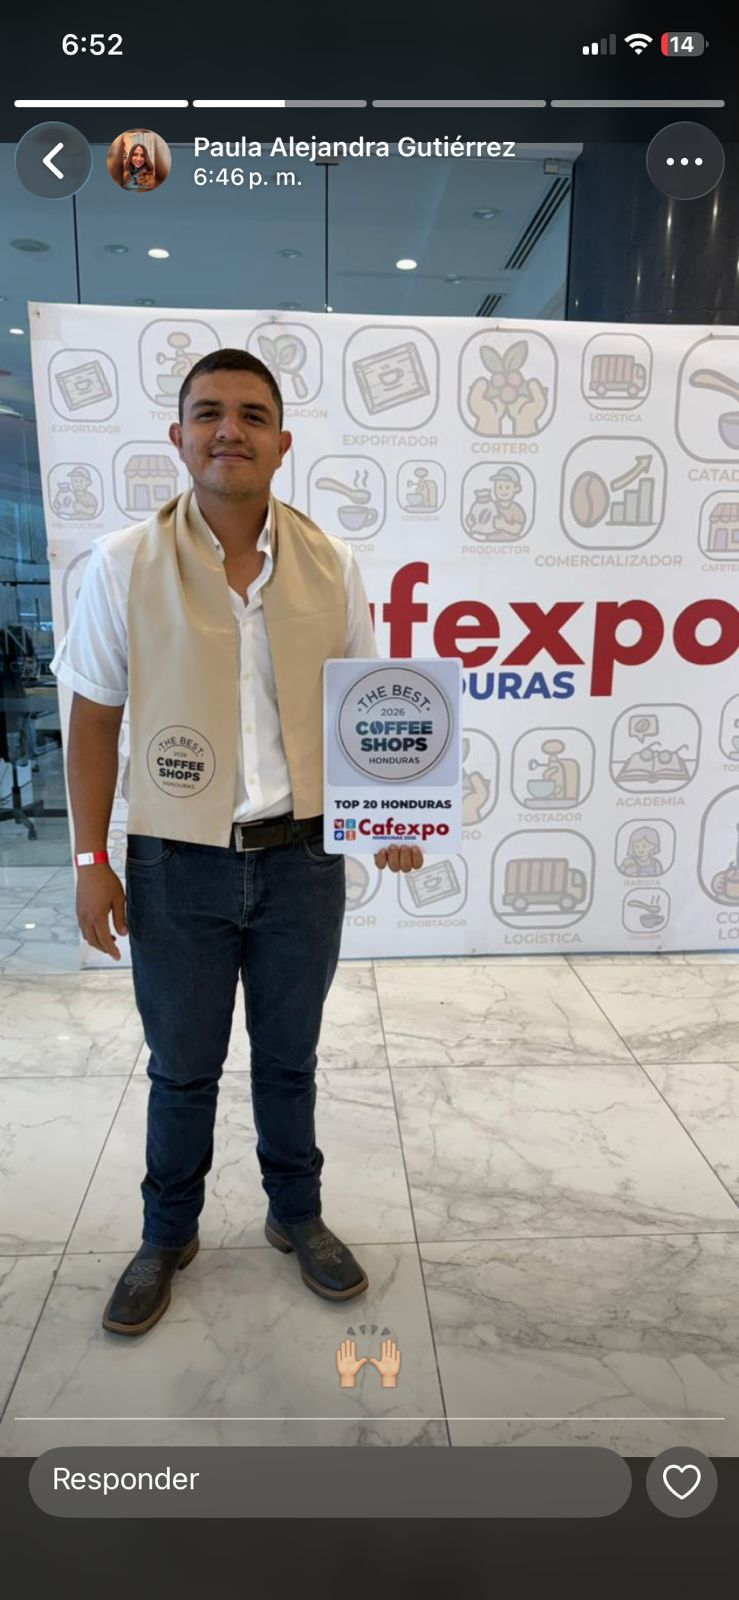
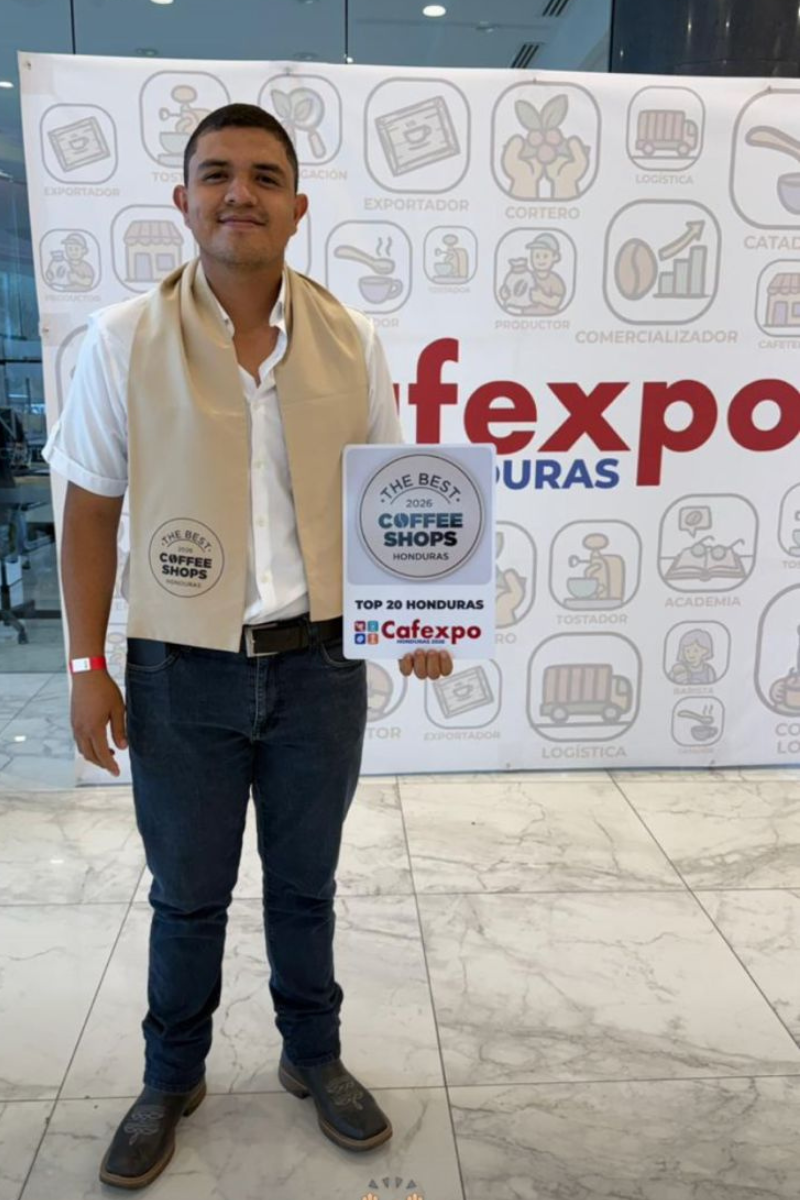
chore: replace history section image with new asset18

diff --git a/index.html b/index.html
@@ -105,7 +105,7 @@
     <div class="historia-inner">
       <div class="historia-img-col reveal-left">
         <div class="historia-year">1890<span data-es="Fundación" data-en="Founded">Fundación</span></div>
-        <img class="historia-main-img" src="assets/images/assets2.jpeg" alt="Vivero 5ta Café">
+        <img class="historia-main-img" src="assets/images/assets18.jpeg" alt="Vivero 5ta Café">
         <img class="historia-float" src="assets/images/logo_100.png" alt="Fundador en la finca">
       </div>
       <div class="historia-text reveal-right">
